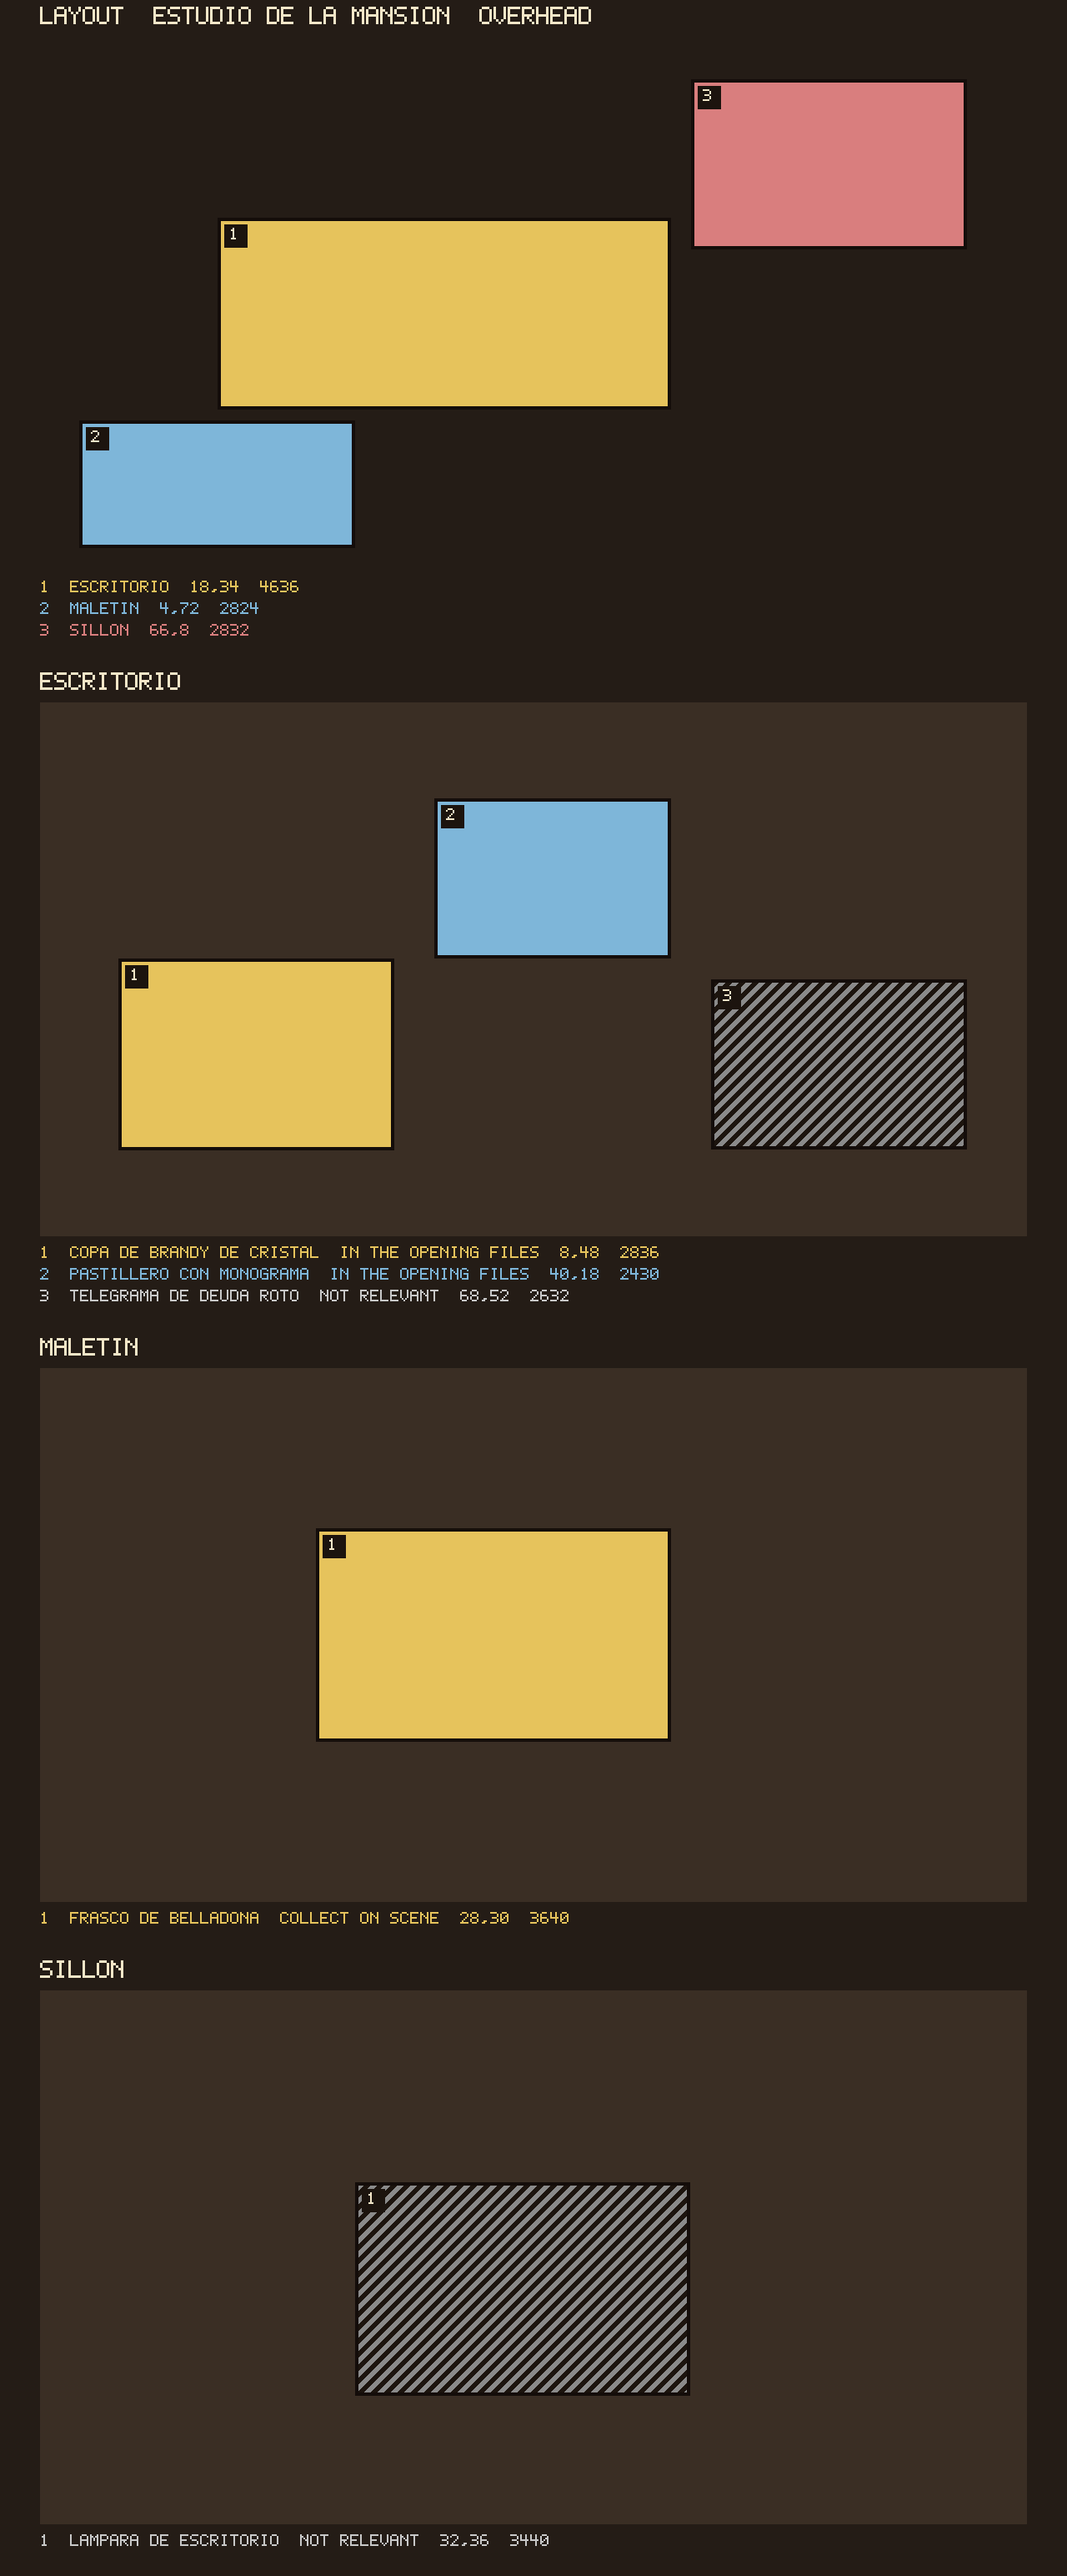
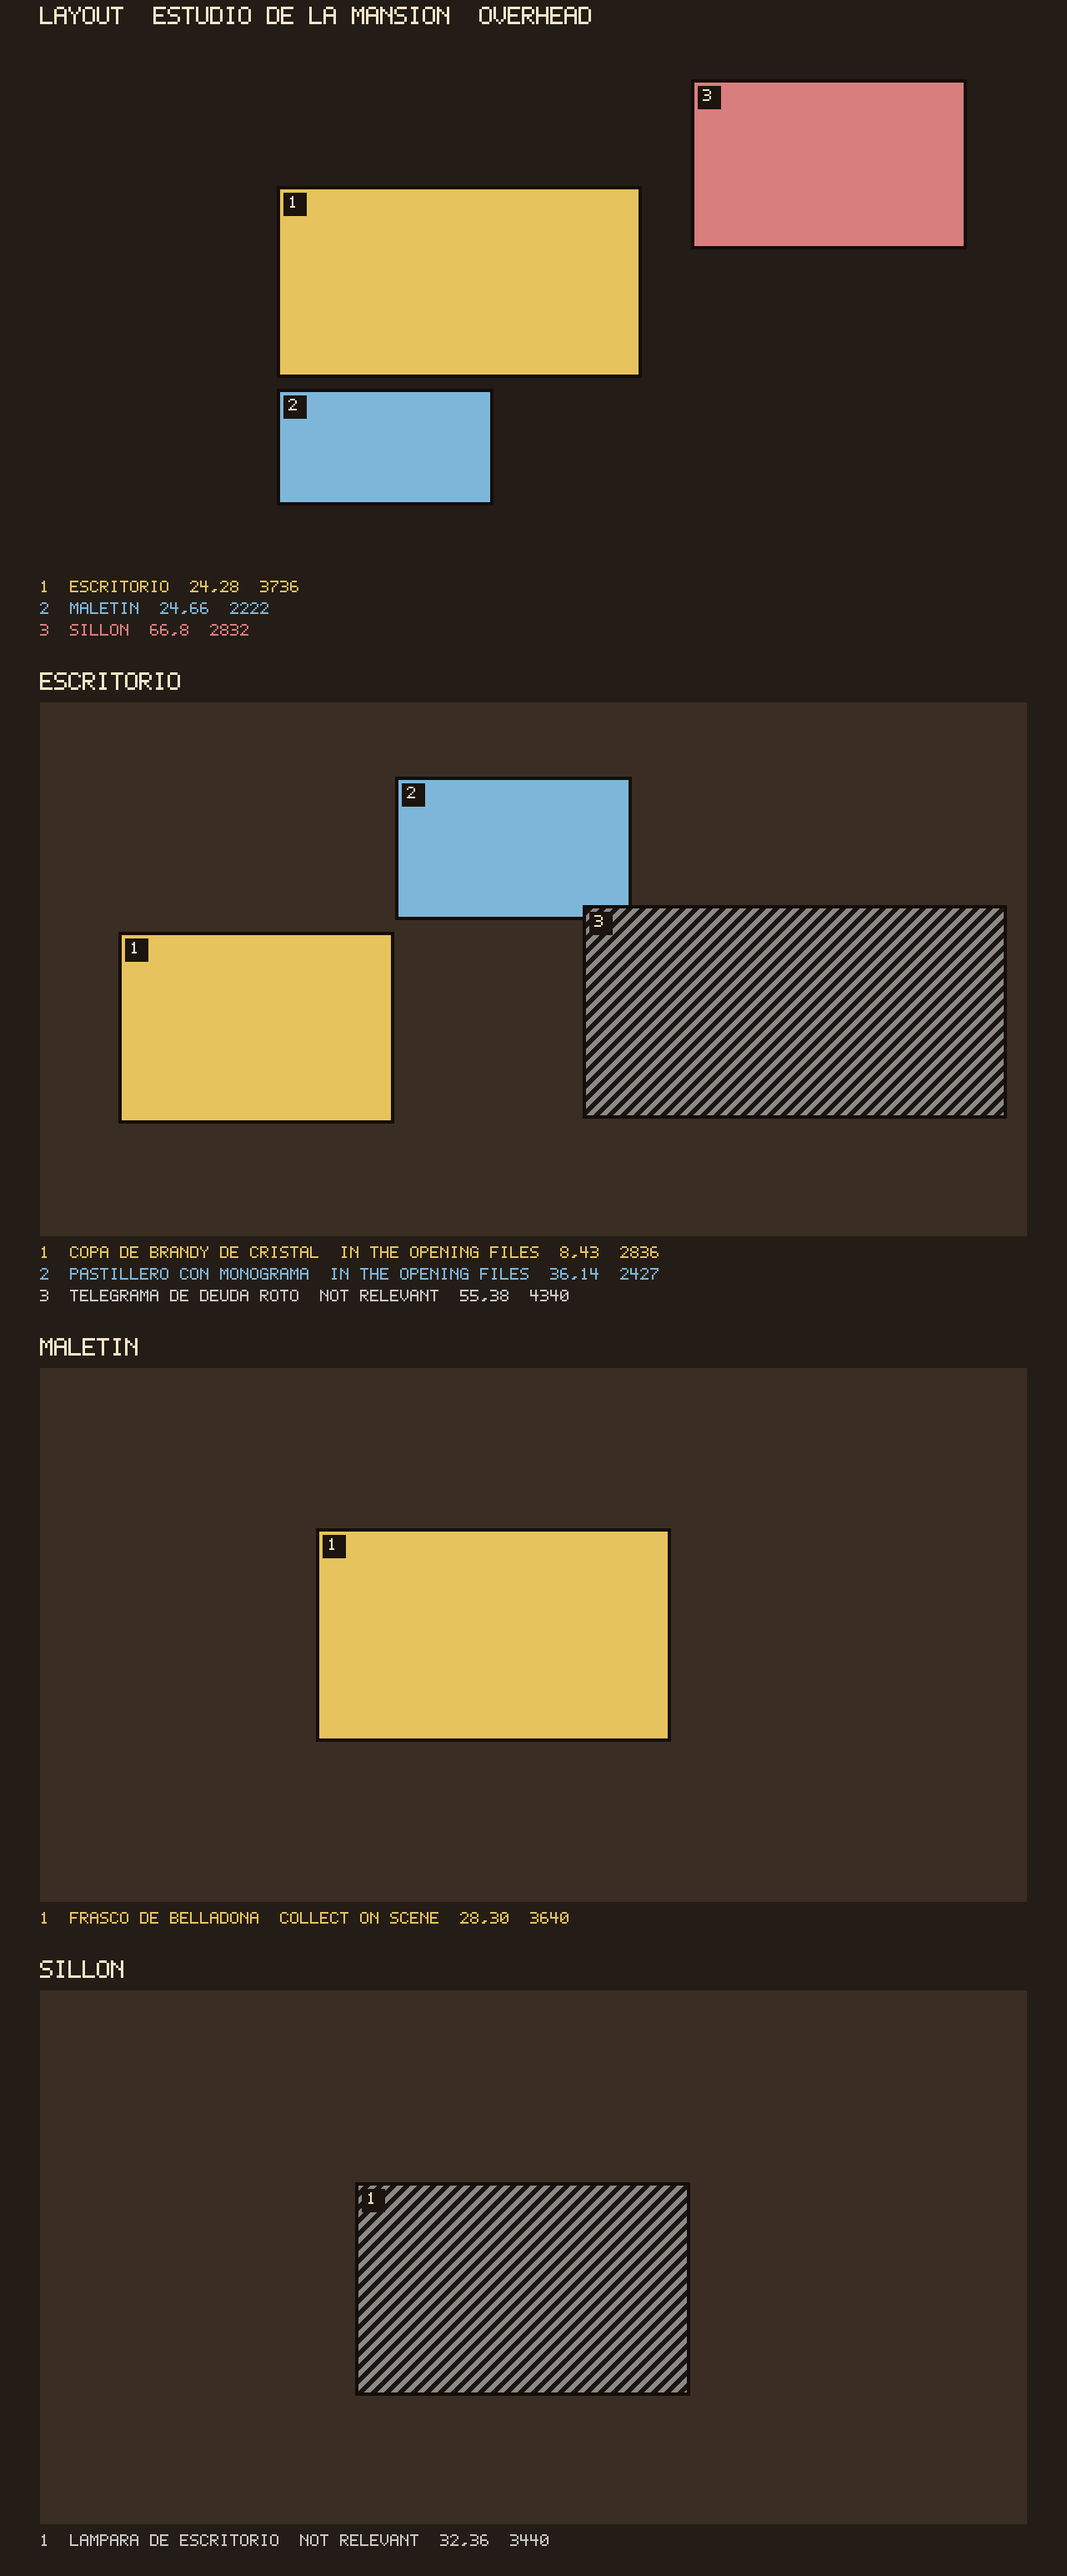
arreglos en merge. Proporciones de zonas de seleccion arregladas para la imagen de prueba.

Changed region(s): [[0.0938, 0.2798, 0.9688, 0.4663], [0.0625, 0.0622, 0.625, 0.2176], [0.0938, 0.4352, 0.375, 0.4663]]

diff --git a/src/caseclosed/data/Case001.kt b/src/caseclosed/data/Case001.kt
@@ -365,18 +365,18 @@ internal val case001 = CasePack(
                         id = "escritorio",
                         name = "Escritorio",
                         image = "images/cases/case_001/scenes/manor_study/escritorio.png",
-                        bounds = box(18.0, 34.0, 46.0, 36.0),
+                        bounds = box(24.0, 28.0, 37.0, 36.0),
                         items = listOf(
-                            spot("item_brandy", 8.0, 48.0, 28.0, 36.0),
-                            spot("item_pillbox", 40.0, 18.0, 24.0, 30.0),
-                            spot("item_telegram", 68.0, 52.0, 26.0, 32.0),
+                            spot("item_brandy", 8.0, 43.0, 28.0, 36.0),
+                            spot("item_pillbox", 36.0, 14.0, 24.0, 27.0),
+                            spot("item_telegram", 55.0, 38.0, 43+.0, 40.0),
                         ),
                     ),
                     SubScene(
                         id = "maletin",
                         name = "Maletín",
                         image = "images/cases/case_001/scenes/manor_study/maletin.png",
-                        bounds = box(4.0, 72.0, 28.0, 24.0),
+                        bounds = box(24.0, 66.0, 22.0, 22.0),
                         items = listOf(
                             spot("item_vial", 28.0, 30.0, 36.0, 40.0),
                         ),

diff --git a/src/caseclosed/ui/SceneScreen.kt b/src/caseclosed/ui/SceneScreen.kt
@@ -196,13 +196,13 @@ private fun Container.hotspot(
     val h = (frame.h * box.h / 100.0).coerceAtLeast(28.0)
     solidRect(w, h, tint) {
         position(x, y)
-        alpha = 0.38
+        alpha = 0.2
     }
     solidRect(w, 3.0, Palette.paper) { position(x, y) }
     val plateW = (label.length * 8.5 + 16.0).coerceAtMost(w - 8.0).coerceAtLeast(28.0)
     solidRect(plateW, 22.0, Palette.mahoganyDeep) {
         position(x + 4.0, y + 6.0)
-        alpha = 0.88
+        alpha = 0.2
     }
     text(clipText(label, 18), textSize = 14.0, color = Palette.paper) { position(x + 8.0, y + 8.0) }
     solidRect(w, h, Colors.WHITE) {

diff --git a/src/caseclosed/model/Models.kt b/src/caseclosed/model/Models.kt
@@ -9,6 +9,7 @@ import kotlinx.serialization.Serializable
 
 data class CasePack(
     val data: CaseData,
+    val initialDiscoveredItemIds: List<String> = emptyList(),
 )
 
 data class CaseData(
